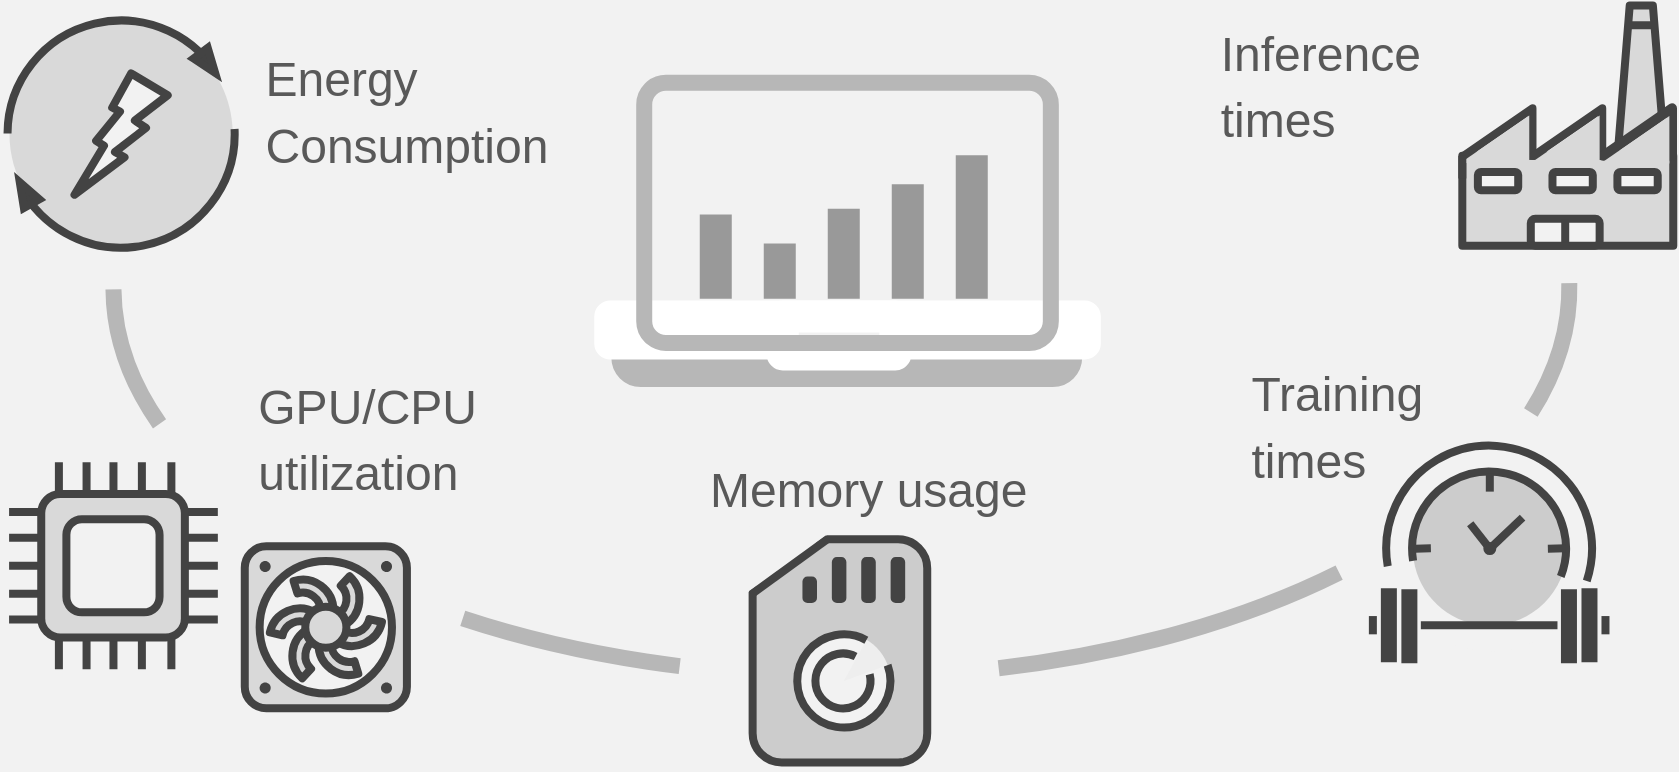
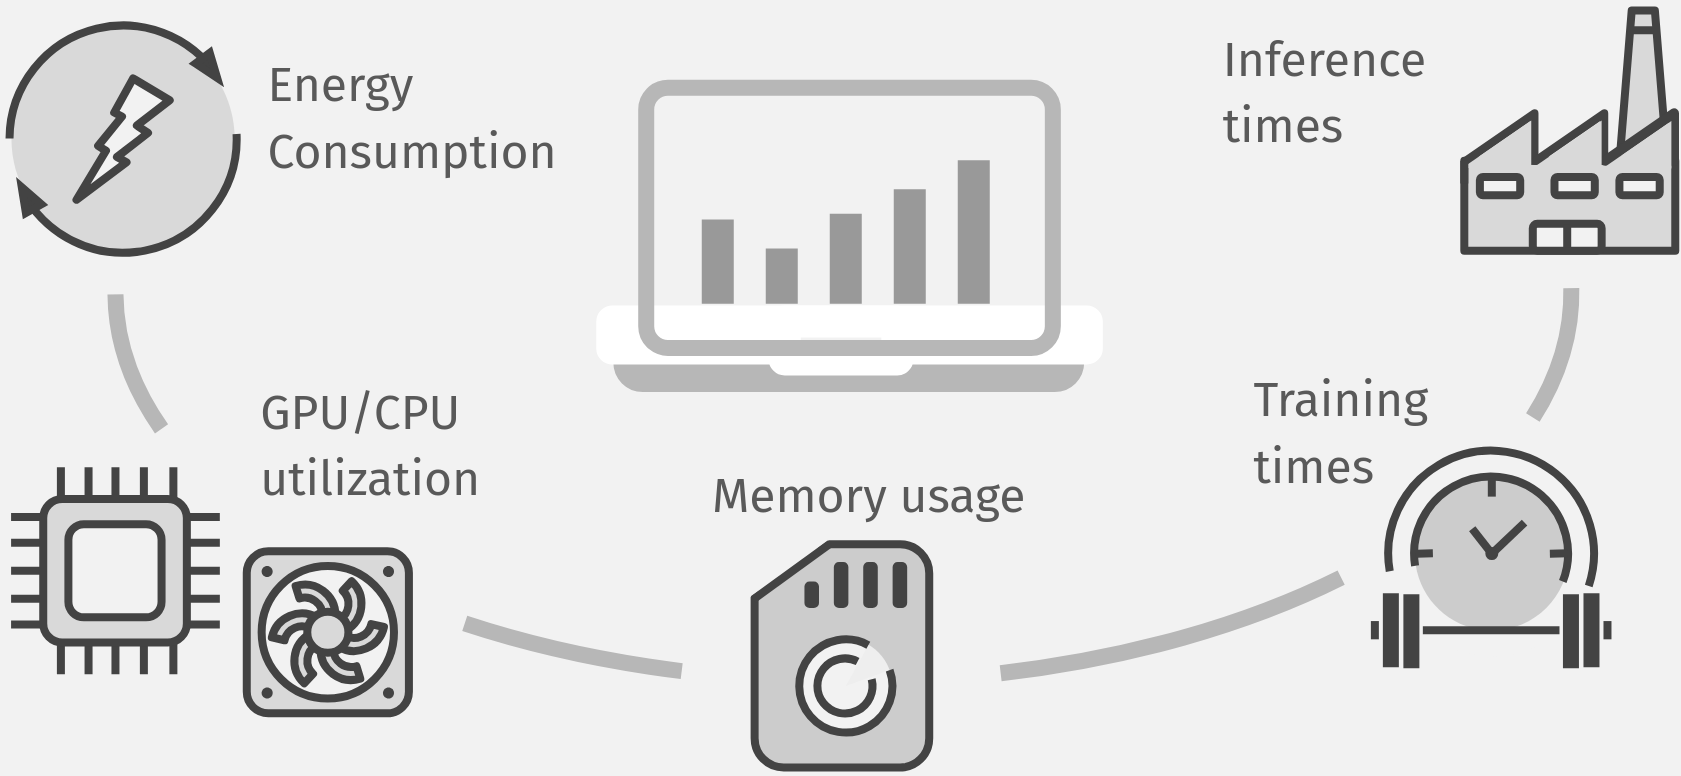
make uniform diagrams

diff --git a/slides/content/content.tex b/slides/content/content.tex
@@ -55,7 +55,8 @@
 
 \begin{frame}{AI Workflows in Physics}
   \centering
-  \include{content/ai_workflow.tex}
+  % \include{content/ai_workflow.tex}
+  \includegraphics[width=0.8\textwidth]{images/workflow.png}
 \end{frame}
 
 \begin{frame}{ML tracking/monitoring in scientific workflows}
@@ -79,7 +80,7 @@
 
 \begin{frame}{Measuring Resource Consumption}
   \centering
-  \includegraphics[width=0.75\textwidth]{images/consumption.png}
+  \includegraphics[width=0.8\textwidth]{images/consumption.png}
 \end{frame}
 
 \begin{frame}{Typical Resource Profile in Physics AI Applications}
